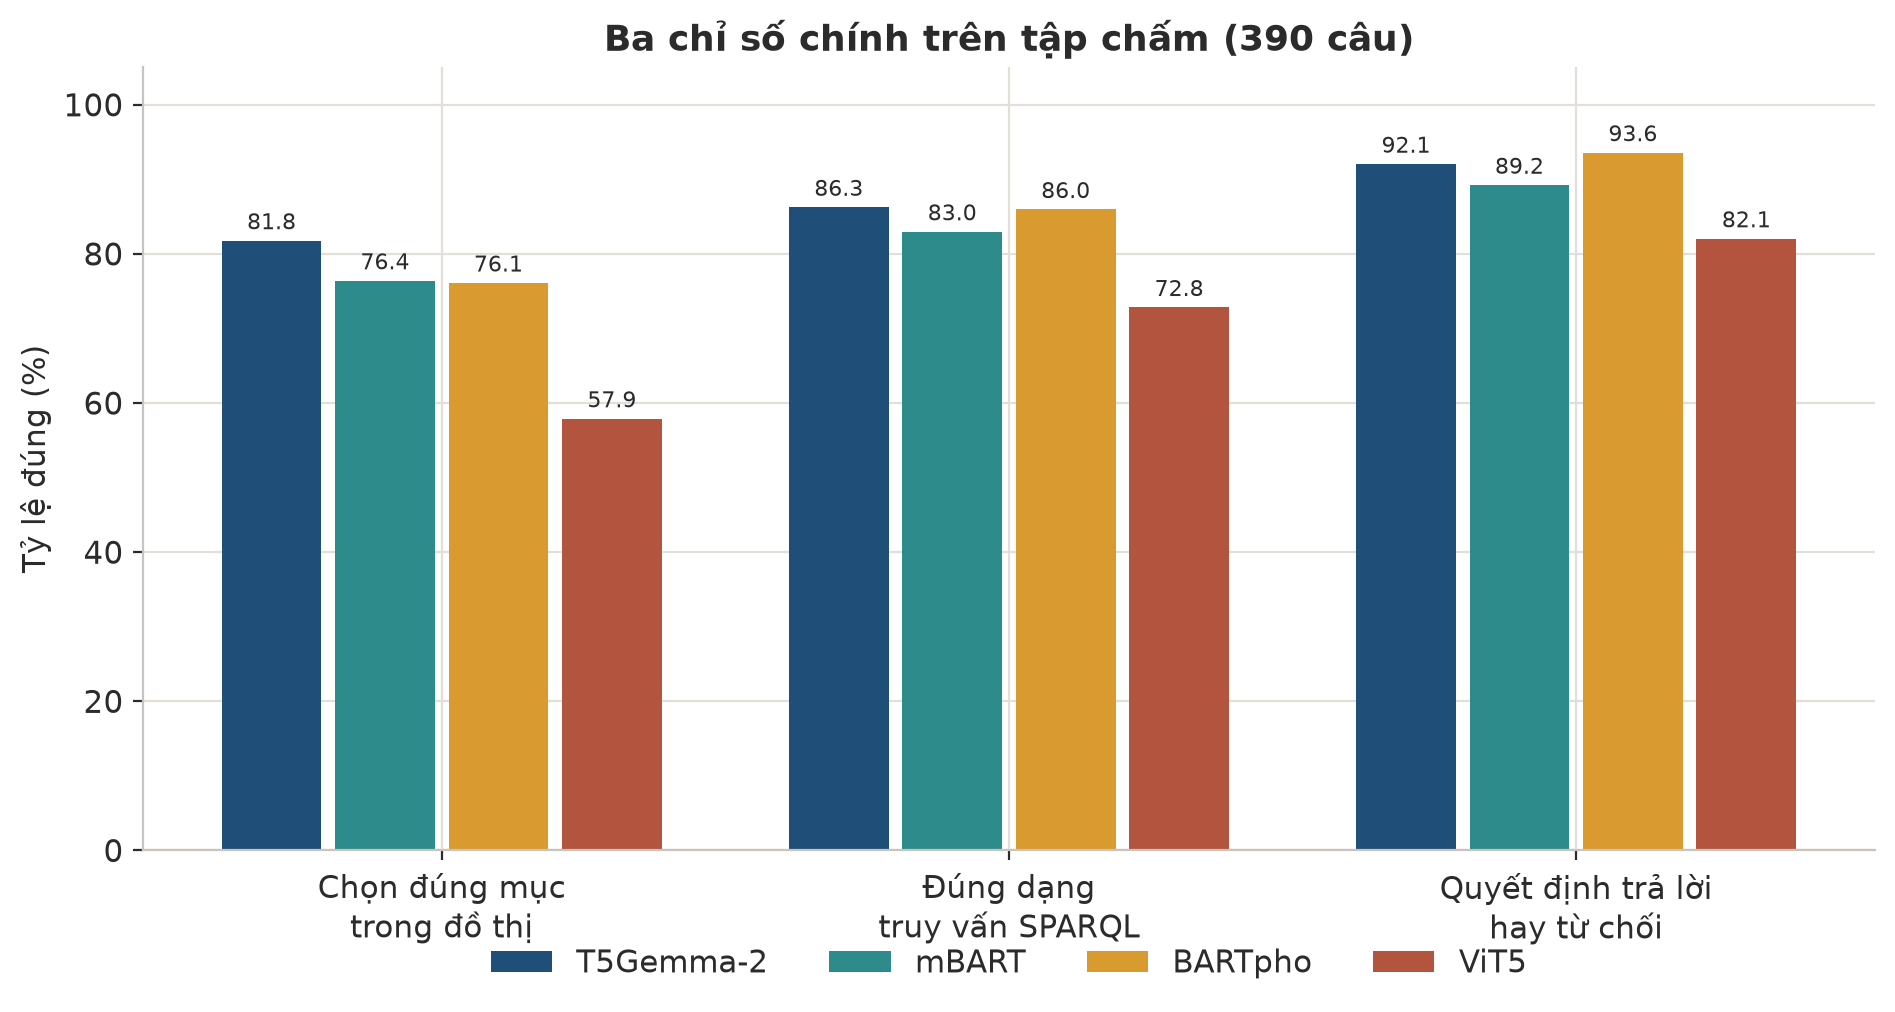
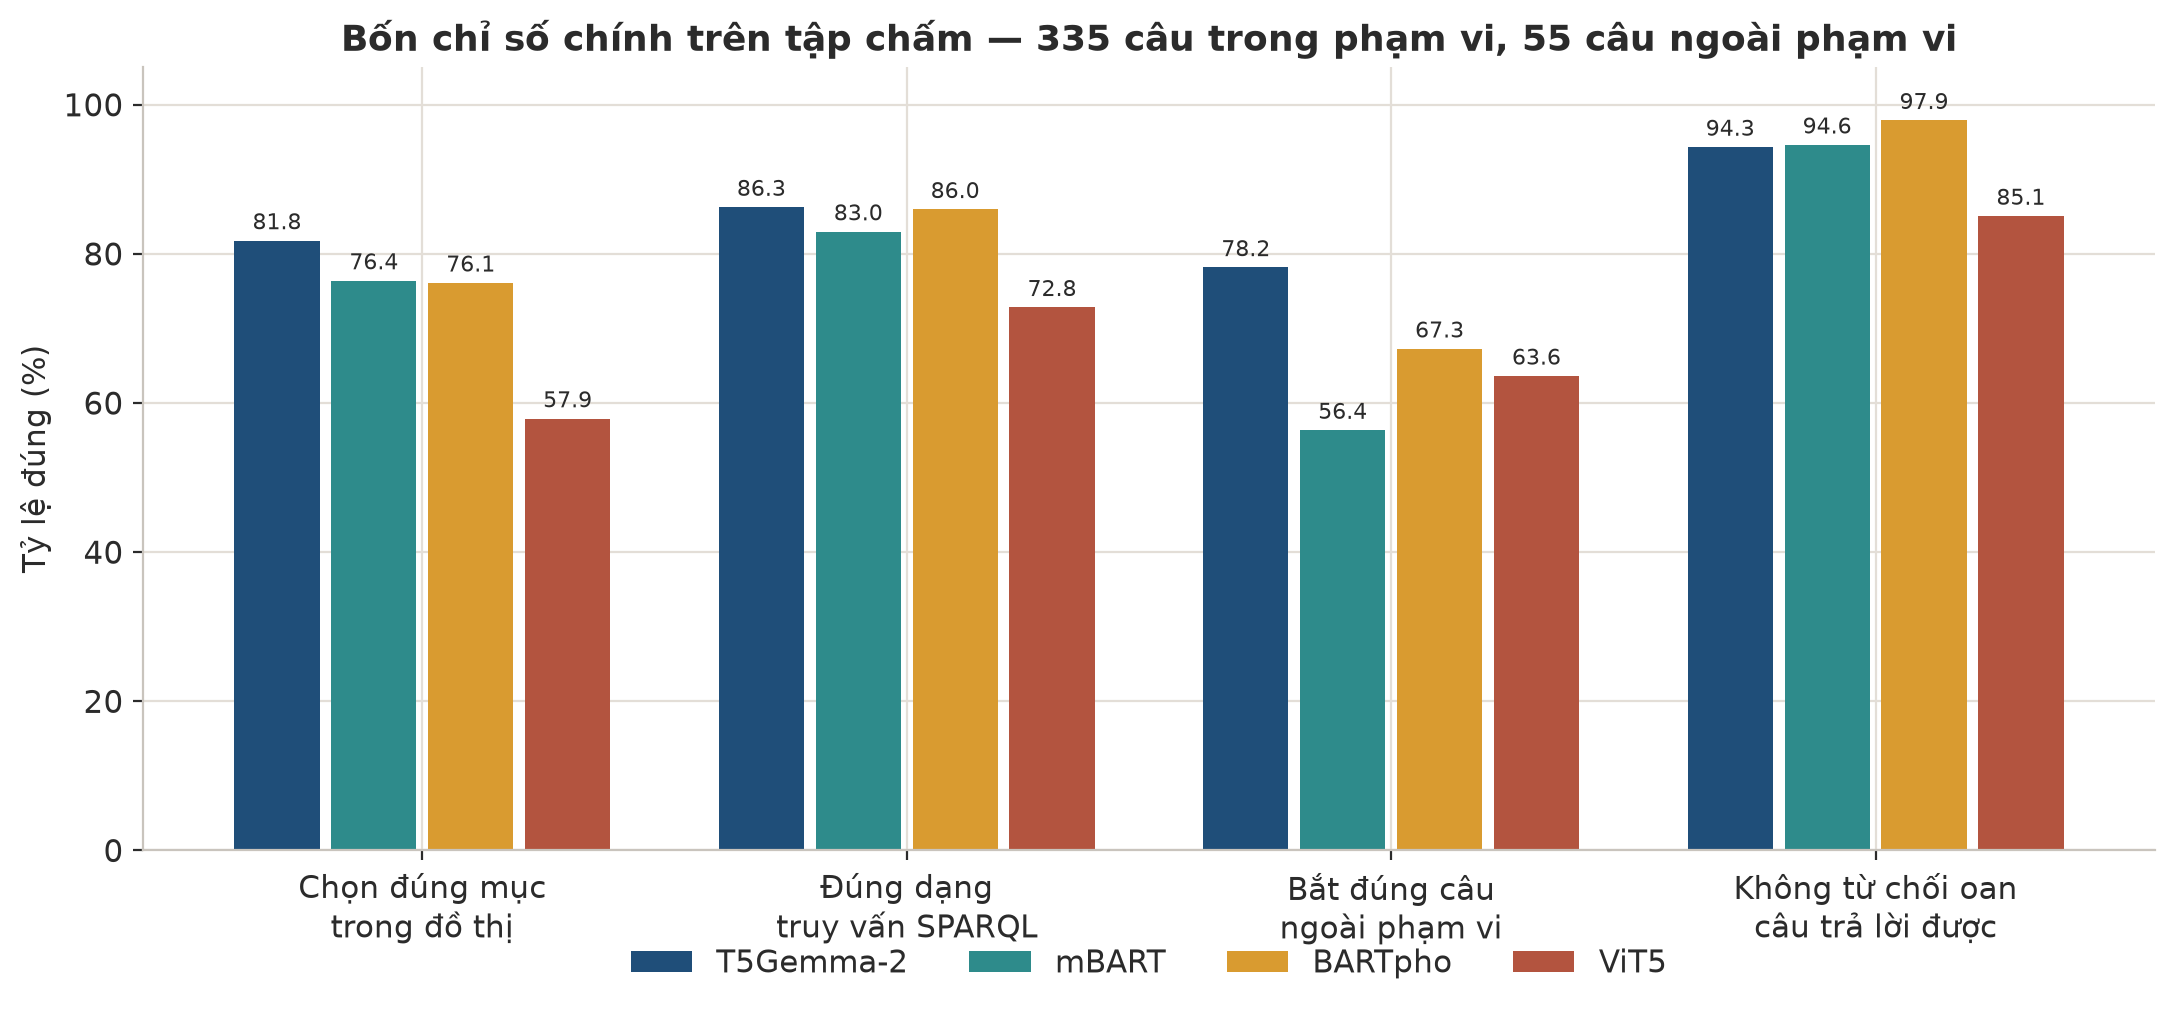
Redraw the figures from the numbers the text now reports
The comparison charts showed the blended refusal rate, which the text no longer
uses. They now show the two rates separately, so the picture and the table tell
the same story: T5Gemma-2 leads on catching out-of-scope questions while
BARTpho leads on not refusing answerable ones.

The data-flow diagram claimed 567 SPARQL targets and one shared epoch count.
There are 566 queries plus one refusal marker, and each model stopped at its
own best round.

The end-to-end figure titled 25 questions as ones the graph cannot answer.
They were written to test that situation, which is not the same claim.

Nine other figures rebuilt byte-identical, which shows the builders are
deterministic and only these needed new data.

diff --git a/README.md b/README.md
@@ -686,19 +686,19 @@ tin cậy; khoảng cách 5,4 điểm vẫn chỉ là một quan sát.
 truy vấn khác khuôn chuẩn dù trả về đúng dữ liệu. Ngược lại, phép dò số và chữ viết
 tắt không đọc hiểu nội dung, nên nó bỏ lọt các lỗi không mang hình dạng đó.
 
-**55 trong 884 câu từ chối bị gán nhãn sai (6,2%).** Soát lại toàn bộ bằng cách chạy
-truy vấn thật trên ontology cho thấy 55 câu mang nhãn "không có thông tin" mà đồ thị
-**trả lời được**: 43 câu ở `train`, 6 ở `val`, 6 ở `test`. Cả 55 câu cùng một chủ đề —
-hỏi về "Đơn xin chuyển Chương trình đào tạo", thứ ontology có đủ tên, số mẫu và đường
-dẫn tải.
+**Nhãn từ chối được kiểm định, và còn 6,2% nhiễu.** Toàn bộ 884 câu mang nhãn "không
+có thông tin" được soát lại bằng cách chạy truy vấn thật trên ontology cho từng câu.
+Phép soát cho thấy **55 câu (6,2%)** thực ra có thể trả lời từ đồ thị: 43 ở `train`,
+6 ở `val`, 6 ở `test`. Cả 55 câu thuộc cùng một chủ đề — biểu mẫu xin chuyển chương
+trình đào tạo — nên đây là nhiễu tập trung ở một chỗ, không rải đều.
 
-Hệ quả: tỷ lệ **bắt đúng câu ngoài phạm vi** ở mục 7.1 tính trên 55 câu `test`, trong
-đó 6 câu lẽ ra phải trả lời được. Con số đó vì vậy là **mức khớp với nhãn hiện có**,
-chưa phải mức đúng đã kiểm chứng. Nhóm nhãn `hard-negative` và `near-domain-missing`
-đã được soát riêng và **không** có lỗi: chúng cố ý hỏi về thực thể có thật nhưng hỏi
-thuộc tính ontology không lưu.
+Phép soát cũng xác nhận phần còn lại **đúng nhãn**: nhóm câu cố ý hỏi về thực thể có
+thật nhưng hỏi thuộc tính ontology không lưu đã được kiểm riêng và không có lỗi nào.
 
-Sửa 55 nhãn này đòi huấn luyện lại cả bốn mô hình, vì 43 câu nằm trong `train`.
+Vì 6 trong 55 câu ngoài phạm vi của `test` nằm trong nhóm nhiễu này, tỷ lệ bắt đúng
+câu ngoài phạm vi ở mục 7.1 nên đọc là **mức khớp với nhãn hiện hành**. Việc chỉnh
+nhãn kéo theo huấn luyện lại cả bốn mô hình do phần lớn nằm ở `train`, nên được xếp
+vào hướng cải tiến thay vì làm trong đợt này.
 
 **Phép đo `end-to-end` có quy mô nhỏ.** Mẫu 85 câu chưa đủ để báo cáo sai số hẹp.
 Mô hình ngôn ngữ lớn không cho kết quả cố định, nên cùng một câu hỏi có thể nhận
